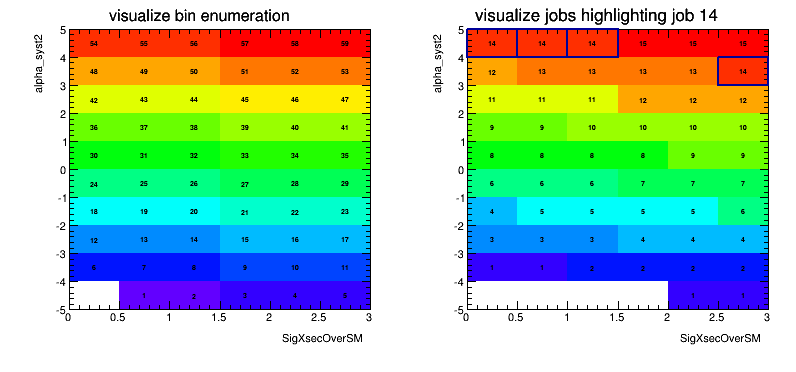
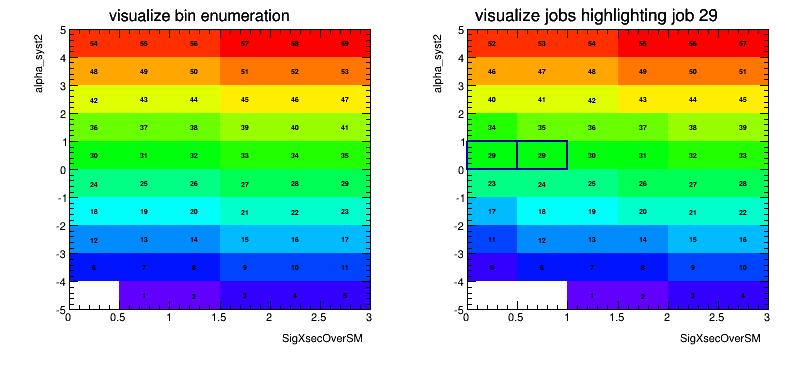
Implement options to calculate unconditional fit in separate job.

diff --git a/tutorials/roostats/py/BatchProfileLikelihood.py b/tutorials/roostats/py/BatchProfileLikelihood.py
@@ -27,9 +27,13 @@ parser.add_option("-c", "--counter", help="Number of this job.", dest="counter",
 parser.add_option("-j", "--jobs", help="Number of jobs.", dest="jobs", type="int", default=1)
 
 parser.add_option("-f", "--fullRun", help="Do a full run.", dest="fullRun", default=False, action="store_true")
+parser.add_option(      "--unconditionalFitInSeparateJob", help="Do the unconditional fit in a separate job", dest="unconditionalFitInSeparateJob", default=False, action="store_true")
 
 parser.add_option("-q", "--quiet", dest="verbose", action="store_false", default=True, help="Quiet output.")
 options,args = parser.parse_args()
+
+# to calculate unconditionalFitInSeparateJob, reduce options.jobs by one to make room for the extra job
+if options.unconditionalFitInSeparateJob: options.jobs -= 1
 
 
 import ROOT
@@ -54,6 +58,9 @@ def parametersNCube( parL, i ):
          setParameterToBin( parL.at(d), i )
          
 def jobBins( numPoints ):
+   if options.unconditionalFitInSeparateJob and options.counter == options.jobs:
+      return (0,0)
+
    return (
       int(math.ceil(float(options.counter)*numPoints/options.jobs)),
       int(math.ceil(float(options.counter+1.0)*numPoints/options.jobs))
@@ -207,6 +214,7 @@ def main():
    print( "" )
    print( "* Total grid points: "+str(numPoints) )
    print( "* Total number of jobs: "+str(options.jobs) )
+   print( "* Calculate unconditional fit in separate job: "+str(options.unconditionalFitInSeparateJob) )
    print( "* This job number: "+str(options.counter) )
    print( "* Processing these grid points: [%d,%d)" % (firstPoint,lastPoint) )
    print( "" )
@@ -221,9 +229,11 @@ def main():
    print( "" )
 
    # unconditional fit
-   for p in range( poiL.getSize() ): poiL.at(p).setConstant(False)
-   minimize( nll )
-   print( "ucmles -- nll="+str(nll.getVal())+", "+", ".join( [poiL.at(p).GetName()+"="+str(poiL.at(p).getVal()) for p in range(poiL.getSize())] ) )
+   if (not options.unconditionalFitInSeparateJob) or \
+      (options.unconditionalFitInSeparateJob and options.counter == options.jobs):
+      for p in range( poiL.getSize() ): poiL.at(p).setConstant(False)
+      minimize( nll )
+      print( "ucmles -- nll="+str(nll.getVal())+", "+", ".join( [poiL.at(p).GetName()+"="+str(poiL.at(p).getVal()) for p in range(poiL.getSize())] ) )
 
    # conditional fits
    for p in range( poiL.getSize() ): poiL.at(p).setConstant()
